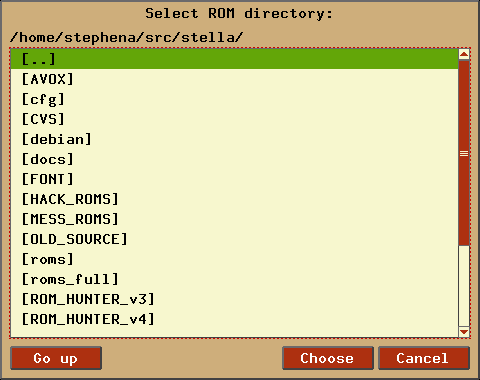
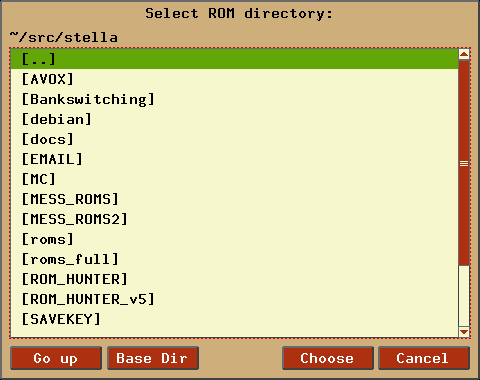
Updated filename handling so that paths saved to the config files and shown within the UI use the '~' symbol whenever possible.  This means that paths from the settings file are now truly relative; change your home directory, and the settings file will still work (it no longer contains absolute path

diff --git a/docs/index.html b/docs/index.html
@@ -559,9 +559,13 @@
 	but for Windows it means your 'My Documents' folder.</p>
 
 	<p>Selecting a new path for an item is done by clicking the appropriate button(s)
-	(in this case, 'Rom path' was selected).  Note that although the rom path
-	was '~/src/stella', it expands to '/home/stephena/src/stella' in the browser:</p>
+	(in this case, 'Rom path' was selected), which will show a browser as follows:</p>
 	<p><img src="graphics/rom_browser.png"></p>
+
+	<p>The browser should be self-explanatory.  The 'Go Up' button moves to the parent
+	folder (if it exists), and the 'Base Dir' button moves to the base directory where,
+	by default, all Stella-related files are stored.  Click 'Choose' to select an item,
+	or 'Cancel' to exit the browser.</p>
 
 	<p>Once you've changed your settings, you can start emulation by selecting a ROM
 	and pressing 'Enter' or clicking 'Select', or double-clicking a ROM.  Note that
